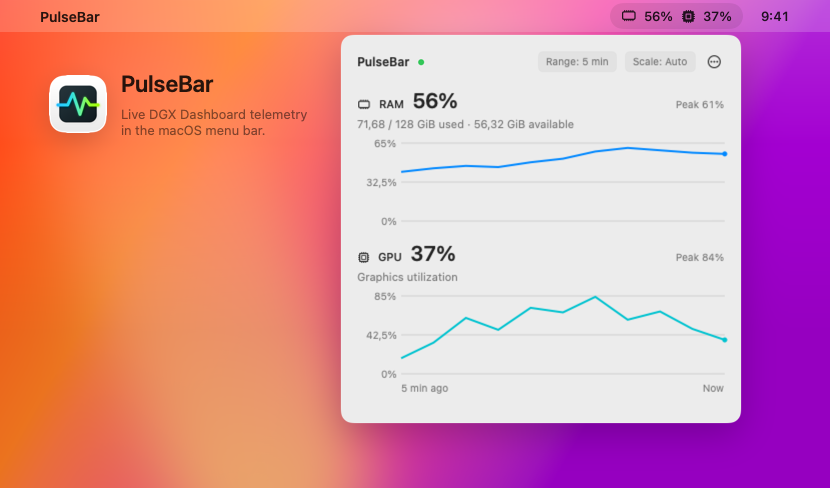
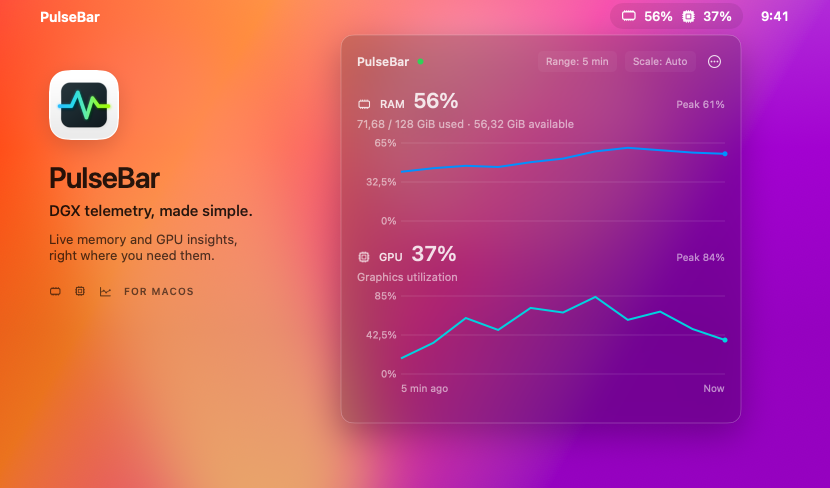
Adopt translucent menu bar panel

diff --git a/Sources/PulseBarTools/PulseBarToolsMain.swift b/Sources/PulseBarTools/PulseBarToolsMain.swift
@@ -747,7 +747,7 @@ private enum ReadmeAssetRenderer {
         let state = historySample(at: reference)
         let panel = try nativeImage(
             TelemetryHistoryPanel(state: state, now: reference, historySeconds: .constant(300), actions: TelemetryPanelActions()),
-            size: TelemetryHistoryPanel.preferredSize(for: state), scheme: .light)
+            size: TelemetryHistoryPanel.preferredSize(for: state), scheme: .dark, transparentBackground: true)
         let renderer = ImageRenderer(
             content: ReadmeMenuPreview(appIcon: appIcon, panel: panel, layout: layout)
                 .environment(\.colorScheme, .light).environment(\.locale, Locale(identifier: "en_US"))
@@ -926,7 +926,9 @@ private enum ReadmeAssetRenderer {
         return record
     }
 
-    private static func nativeImage<Content: View>(_ content: Content, size: NSSize, scheme: ColorScheme) throws -> NSImage {
+    private static func nativeImage<Content: View>(
+        _ content: Content, size: NSSize, scheme: ColorScheme, transparentBackground: Bool = false
+    ) throws -> NSImage {
         // Native fields and buttons need AppKit drawing; ImageRenderer omits platform-backed controls.
         _ = NSApplication.shared.setActivationPolicy(.prohibited)
         let view = NSHostingView(
@@ -936,6 +938,10 @@ private enum ReadmeAssetRenderer {
             contentRect: NSRect(origin: .zero, size: size), styleMask: [.borderless], backing: .buffered, defer: false)
         window.isReleasedWhenClosed = false
         window.appearance = NSAppearance(named: scheme == .light ? .aqua : .darkAqua)
+        if transparentBackground {
+            window.isOpaque = false
+            window.backgroundColor = .clear
+        }
         window.contentView = view
         view.frame = NSRect(origin: .zero, size: size)
         view.layoutSubtreeIfNeeded()
@@ -1021,7 +1027,7 @@ private struct ReadmeMenuPreview: View {
         ZStack(alignment: .topLeading) {
             backgroundView
             menuBar
-            titleBlock.offset(x: isSocial ? 24 : 49, y: isSocial ? 135 : 70)
+            titleBlock.offset(x: isSocial ? 24 : 49, y: isSocial ? 50 : 70)
             menuCard.offset(x: isSocial ? 360 : 341, y: isSocial ? 38 : 35)
         }
         .frame(width: cardWidth, height: cardHeight, alignment: .topLeading)
@@ -1029,25 +1035,29 @@ private struct ReadmeMenuPreview: View {
     }
 
     private var titleBlock: some View {
-        HStack(alignment: .center, spacing: 14) {
+        VStack(alignment: .leading, spacing: 0) {
             if let appIcon {
-                Image(nsImage: appIcon)
-                    .resizable()
-                    .interpolation(.high)
-                    .frame(width: isSocial ? 48 : 58, height: isSocial ? 48 : 58)
-                    .shadow(color: .black.opacity(0.18), radius: 14, x: 0, y: 8)
+                Image(nsImage: appIcon).resizable().interpolation(.high)
+                    .frame(width: isSocial ? 52 : 70, height: isSocial ? 52 : 70)
+                    .shadow(color: .black.opacity(0.15), radius: 12, x: 0, y: 7)
+                    .padding(.bottom, isSocial ? 11 : 20)
             }
-
-            VStack(alignment: .leading, spacing: 9) {
-                Text("PulseBar")
-                    .font(.system(size: 23, weight: .semibold))
-                Text("Live DGX Dashboard telemetry in the macOS menu bar.")
-                    .font(.system(size: 13))
-                    .foregroundStyle(.secondary)
-                    .fixedSize(horizontal: false, vertical: true)
+            Text("PulseBar").font(.system(size: isSocial ? 24 : 29, weight: .semibold)).tracking(-0.75)
+            Text("DGX telemetry, made simple.")
+                .font(.system(size: isSocial ? 13 : 15, weight: .medium)).padding(.top, 7)
+            Text("Live memory and GPU insights,\nright where you need them.")
+                .font(.system(size: isSocial ? 11 : 13)).foregroundStyle(.black.opacity(0.68))
+                .fixedSize(horizontal: false, vertical: true).padding(.top, isSocial ? 7 : 11)
+            HStack(spacing: 12) {
+                Image(systemName: "memorychip")
+                Image(systemName: "cpu")
+                Image(systemName: "chart.xyaxis.line")
+                Text("FOR MACOS").tracking(1)
             }
+            .font(.system(size: isSocial ? 9 : 10, weight: .semibold)).foregroundStyle(.black.opacity(0.58))
+            .padding(.top, isSocial ? 13 : 22)
         }
-        .frame(width: isSocial ? 292 : 266, alignment: .leading)
+        .frame(width: 266, alignment: .leading)
     }
 
     private var backgroundView: some View {
@@ -1132,10 +1142,9 @@ private struct ReadmeMenuPreview: View {
                 .font(.system(size: 13, weight: .medium))
                 .monospacedDigit()
         }
-        .foregroundStyle(.primary)
+        .foregroundStyle(.white)
         .padding(.horizontal, safeInset)
         .frame(height: 32)
-        .background(.white.opacity(0.18))
     }
 
     private var menuCard: some View {
@@ -1143,6 +1152,15 @@ private struct ReadmeMenuPreview: View {
         let cornerRadius: CGFloat = isSocial ? 8 : 12
         return Image(nsImage: panel)
             .resizable().interpolation(.high).frame(width: panel.size.width * scale, height: panel.size.height * scale)
+            // Recreate the underlying wallpaper inside the card to approximate macOS backdrop blur offscreen.
+            .background(alignment: .topLeading) {
+                backgroundView
+                    .blur(radius: isSocial ? 9 : 14)
+                    .offset(x: isSocial ? -360 : -341, y: isSocial ? -38 : -35)
+                    .frame(width: panel.size.width * scale, height: panel.size.height * scale, alignment: .topLeading)
+                    .clipped()
+                    .overlay(.black.opacity(0.18))
+            }
             .clipShape(RoundedRectangle(cornerRadius: cornerRadius))
             .overlay { RoundedRectangle(cornerRadius: cornerRadius).stroke(.white.opacity(0.4), lineWidth: 0.5) }
             .shadow(color: .black.opacity(0.22), radius: isSocial ? 14 : 18, x: 0, y: isSocial ? 8 : 12)

diff --git a/Sources/PulseBarUI/TelemetryHistoryPanel.swift b/Sources/PulseBarUI/TelemetryHistoryPanel.swift
@@ -81,6 +81,16 @@ public enum TelemetryChartSelection {
     }
 }
 
+struct TelemetryPanelBackground: View {
+    let reduceTransparency: Bool
+
+    var body: some View {
+        if reduceTransparency {
+            Color(nsColor: .windowBackgroundColor)
+        }
+    }
+}
+
 // Used by both the menu-bar window and native previews.
 public struct TelemetryHistoryPanel: View {
     private let state: TelemetryPanelState
@@ -89,6 +99,7 @@ public struct TelemetryHistoryPanel: View {
     @Binding private var historySeconds: Int
     @Binding private var automaticScale: Bool
     @State private var isShowingAbout = false
+    @Environment(\.accessibilityReduceTransparency) private var reduceTransparency
 
     public init(
         state: TelemetryPanelState, now: Date, historySeconds: Binding<Int>, actions: TelemetryPanelActions,
@@ -151,7 +162,7 @@ public struct TelemetryHistoryPanel: View {
         }
         // Keep the viewport finite when MenuBarExtra probes its compressed opening size.
         .frame(width: Self.preferredSize(for: state).width, height: Self.preferredSize(for: state).height)
-        .background(Color(nsColor: .windowBackgroundColor))
+        .background(TelemetryPanelBackground(reduceTransparency: reduceTransparency))
     }
 
     private var actionsMenu: some View {
@@ -386,7 +397,8 @@ private struct TelemetryMetricChart: View {
                         }
                         .font(.system(size: 10, weight: .medium)).monospacedDigit()
                         .padding(5)
-                        .background(.regularMaterial, in: RoundedRectangle(cornerRadius: 5))
+                        // A nested material can disrupt the menu-bar window's backdrop on hover.
+                        .background(Color(nsColor: .windowBackgroundColor), in: RoundedRectangle(cornerRadius: 5))
                         .overlay(RoundedRectangle(cornerRadius: 5).stroke(Color.secondary.opacity(0.2), lineWidth: 0.5))
                         .fixedSize()
                         .position(x: min(max(plot.minX + x, plot.minX + 42), plot.maxX - 42), y: plot.minY + 18)

diff --git a/Package.swift b/Package.swift
@@ -1,10 +1,29 @@
 // swift-tools-version: 6.0
+import Foundation
 import PackageDescription
+
+let minimumMacOSVersion = "13.0"
+
+// SwiftPM's Xcode build system can otherwise record the deployment target as the linked SDK,
+// causing macOS to use compatibility appearances even when building with a newer SDK.
+let sdkQuery = Process()
+sdkQuery.executableURL = URL(fileURLWithPath: "/usr/bin/xcrun")
+let selectedSDK = ProcessInfo.processInfo.environment["SDKROOT"].flatMap { $0.isEmpty ? nil : $0 } ?? "macosx"
+sdkQuery.arguments = ["--sdk", selectedSDK, "--show-sdk-version"]
+let sdkOutput = Pipe()
+sdkQuery.standardOutput = sdkOutput
+try sdkQuery.run()
+let sdkData = sdkOutput.fileHandleForReading.readDataToEndOfFile()
+sdkQuery.waitUntilExit()
+let macOSSDKVersion = String(decoding: sdkData, as: UTF8.self).trimmingCharacters(in: .whitespacesAndNewlines)
+guard sdkQuery.terminationStatus == 0, !macOSSDKVersion.isEmpty else {
+    fatalError("Could not determine the selected macOS SDK version with xcrun")
+}
 
 let package = Package(
     name: "PulseBar",
     platforms: [
-        .macOS(.v13)
+        .macOS(minimumMacOSVersion)
     ],
     products: [
         .executable(
@@ -32,6 +51,8 @@ let package = Package(
                     [
                         "-Xlinker", "-rpath", "-Xlinker", "@executable_path/../Frameworks",
                         "-Xlinker", "-rpath", "-Xlinker", "@executable_path",
+                        "-Xlinker", "-platform_version", "-Xlinker", "macos", "-Xlinker", minimumMacOSVersion,
+                        "-Xlinker", macOSSDKVersion,
                     ], .when(platforms: [.macOS]))
             ]
         ),

diff --git a/Tests/PulseBarAppTests/MetricsDetailLayoutTests.swift b/Tests/PulseBarAppTests/MetricsDetailLayoutTests.swift
@@ -3,8 +3,20 @@ import SwiftUI
 import XCTest
 
 @testable import PulseBarApp
+@testable import PulseBarUI
 
 final class MetricsDetailLayoutTests: XCTestCase {
+    @MainActor
+    func testReduceTransparencyMakesPanelBackgroundOpaque() throws {
+        func backgroundAlpha(reduceTransparency: Bool) throws -> CGFloat {
+            let background = TelemetryPanelBackground(reduceTransparency: reduceTransparency).frame(width: 10, height: 10)
+            let image = try XCTUnwrap(ImageRenderer(content: background).cgImage)
+            return try XCTUnwrap(NSBitmapImageRep(cgImage: image).colorAt(x: 5, y: 5)).alphaComponent
+        }
+        XCTAssertEqual(try backgroundAlpha(reduceTransparency: true), 1, accuracy: 0.01)
+        XCTAssertEqual(try backgroundAlpha(reduceTransparency: false), 0, accuracy: 0.01)
+    }
+
     @MainActor
     func testSignedOutPanelHasUsableInitialSize() {
         _ = NSApplication.shared
